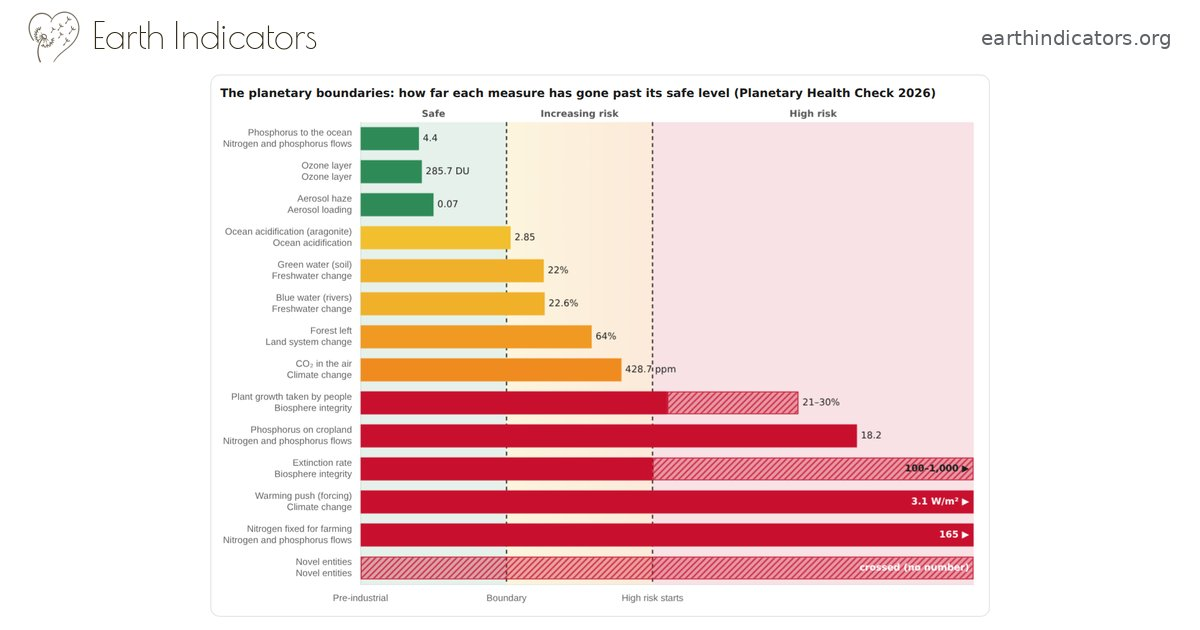
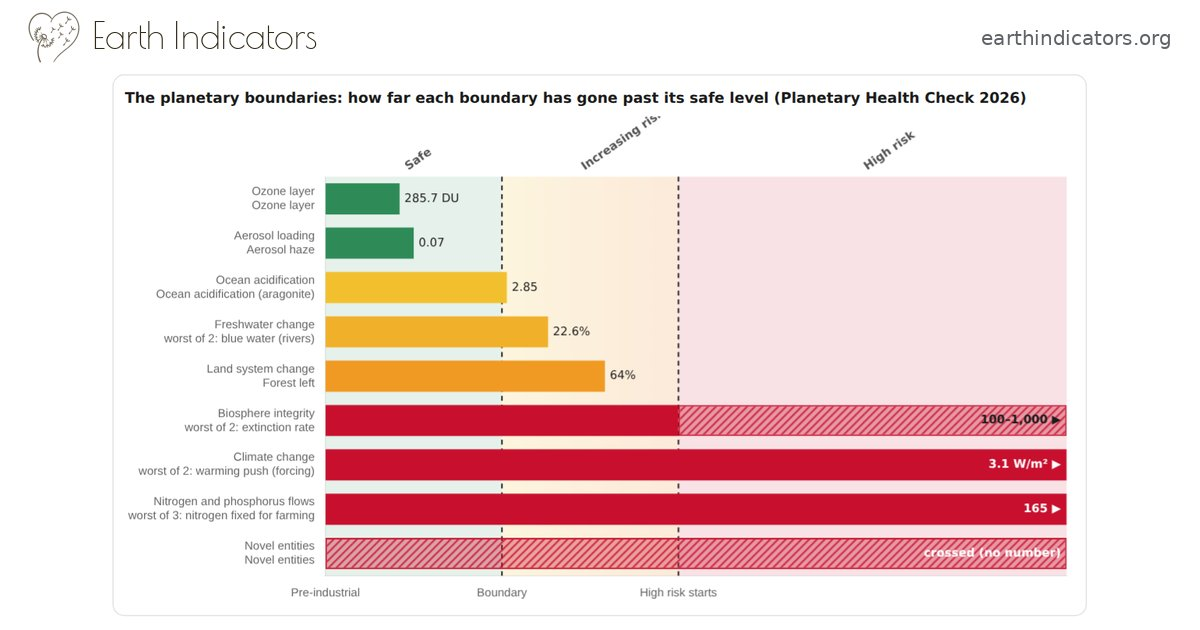
Update chart share links

Changed region(s): [[0.0925, 0.1206, 0.8942, 0.9651]]

diff --git a/s/boundaries-c1.html b/s/boundaries-c1.html
@@ -1,22 +1,22 @@
 <!DOCTYPE html>
 <html lang="en"><head><meta charset="utf-8">
 <meta name="viewport" content="width=device-width, initial-scale=1">
-<title>The planetary boundaries: how far each measure has gone past its safe level (Planetary Health Check 2026) | Earth Indicators</title>
+<title>The planetary boundaries: how far each boundary has gone past its safe level (Planetary Health Check 2026) | Earth Indicators</title>
 <meta name="robots" content="noindex">
 <meta property="og:type" content="article">
 <meta property="og:site_name" content="Earth Indicators">
-<meta property="og:title" content="The planetary boundaries: how far each measure has gone past its safe level (Planetary Health Check 2026)">
+<meta property="og:title" content="The planetary boundaries: how far each boundary has gone past its safe level (Planetary Health Check 2026)">
 <meta property="og:description" content="The nine planetary boundaries and their 13 measures, from the Planetary Health Check 2026: how far each is from the safe zone, and which ones Earth Indicators measures itself.">
 <meta property="og:url" content="https://earthindicators.org/s/boundaries-c1.html">
 <meta property="og:image" content="https://earthindicators.org/og/s/boundaries-c1.jpg">
 <meta property="og:image:type" content="image/jpeg">
 <meta property="og:image:width" content="1200">
 <meta property="og:image:height" content="630">
-<meta property="og:image:alt" content="Chart: The planetary boundaries: how far each measure has gone past its safe level (Planetary Health Check 2026)">
+<meta property="og:image:alt" content="Chart: The planetary boundaries: how far each boundary has gone past its safe level (Planetary Health Check 2026)">
 <meta name="twitter:card" content="summary_large_image">
 <meta name="description" content="The nine planetary boundaries and their 13 measures, from the Planetary Health Check 2026: how far each is from the safe zone, and which ones Earth Indicators measures itself.">
 <script>location.replace('../boundaries.html#ch-c1'+(/^#[0-9.]+$/.test(location.hash)?'~'+location.hash.slice(1):''))</script>
 <style>body{font:17px/1.5 system-ui,sans-serif;max-width:640px;margin:40px auto;padding:0 16px}</style>
 </head><body>
-<p><a href="../boundaries.html#ch-c1">The planetary boundaries: how far each measure has gone past its safe level (Planetary Health Check 2026): see the chart on Earth Indicators</a></p>
+<p><a href="../boundaries.html#ch-c1">The planetary boundaries: how far each boundary has gone past its safe level (Planetary Health Check 2026): see the chart on Earth Indicators</a></p>
 </body></html>
